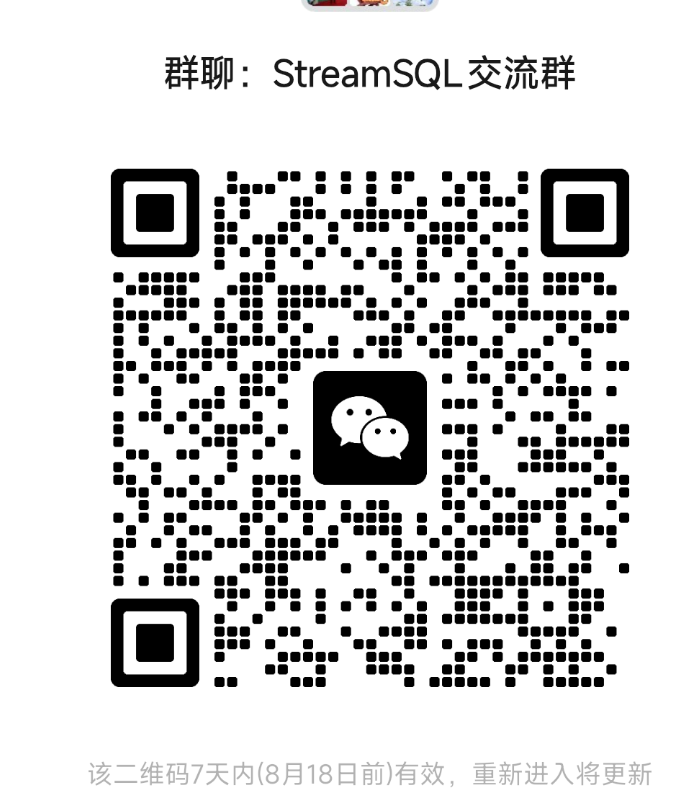
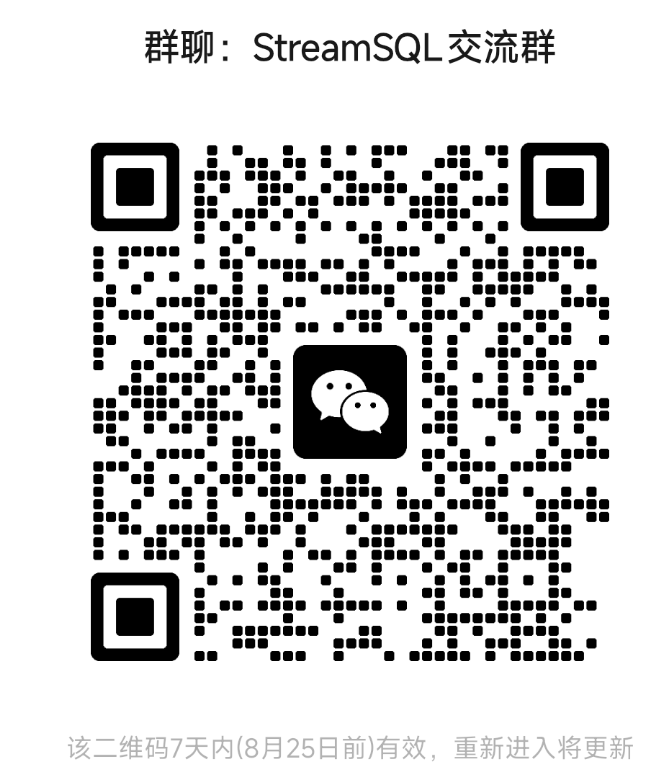
chore:更新群二维码

diff --git a/docs/01.指南/12.RuleGo-Server/02.安装与部署.md b/docs/01.指南/12.RuleGo-Server/02.安装与部署.md
@@ -230,6 +230,26 @@ enable = false
 addr = 0.0.0.0:6060
 ```
 
+### 性能调优
+
+**GOMEMLIMIT（推荐）**：Go 1.19+ 支持 `GOMEMLIMIT` 环境变量，可硬性限制堆内存上限，防止在无 swap 的受限设备上 OOM：
+
+```bash
+# 设置堆上限 256MiB（默认 GOGC=100，不影响吞吐）
+GOMEMLIMIT=256MiB ./server -c=./config.conf
+```
+
+实测数据（16 核 / 32GB，规则链 js→filter→switch→restApiCall）：
+
+| 配置 | 吞吐 | RSS 峰值 | 适用场景 |
+|------|------|----------|----------|
+| 默认（GOGC=100） | 65k/s | 134MB | 通用 |
+| GOGC=200 | 76k/s（+16%） | 179MB | 内存充裕，追求吞吐 |
+| GOMEMLIMIT=256MiB | 88k/s（+35%） | 303MB | 受限设备，内存可控 |
+| GOMEMLIMIT=512MiB | 92k/s（+40%） | 539MB | 内存充裕，极致吞吐 |
+
+> ⚠ 少核机器（≤2 核）**勿用 `GOGC=off`**：贴顶 GC 会吃掉稀缺 CPU，延迟毛刺可达数秒。建议保持默认 GOGC + GOMEMLIMIT 做安全上限。
+
 ## Docker 部署
 
 ```dockerfile
@@ -268,12 +288,23 @@ go build -tags "with_ai,with_iot,with_etl,with_ci,with_extend" -o server ./cmd/s
 
 | 标签 | 说明 |
 |------|------|
-| `with_all` | 所有可选组件（等同于同时启用下面全部标签） |
+| `with_all` | 所有可选组件（等同于同时启用下面全部标签，**不含** `use_fasthttp`） |
 | `with_ai` | AI 相关组件（ai/agent 节点、LLM 工具等） |
 | `with_iot` | IoT 相关组件 |
 | `with_etl` | ETL 数据处理组件 |
 | `with_ci` | CI/CD 相关组件 |
 | `with_extend` | 扩展组件 |
+| `use_fasthttp` | 用 fasthttp 替换 HTTP 端点和 restApiCall 组件（需与 `with_all` 等组合使用） |
+
+> **`use_fasthttp` 选型建议**：fasthttp 在 **4 核及以上**机器上吞吐提升显著（实测 +47~82%），但在 **2 核机器上反而慢约 30%**（fasthttp 端点框架的连接管理机制在少核下成为负担）。2 核及以下机器建议使用默认的 net/http 实现。用法示例：
+>
+> ```bash
+> # 4 核以上机器：启用 fasthttp 获得更高吞吐
+> go build -tags "with_all,use_fasthttp" -o server ./cmd/server/
+>
+> # 2 核机器：使用默认 net/http
+> go build -tags "with_all" -o server ./cmd/server/
+> ```
 
 ## 完整配置文件示例
 

diff --git a/docs/01.指南/12.RuleGo-Server/10.二次开发.md b/docs/01.指南/12.RuleGo-Server/10.二次开发.md
@@ -393,12 +393,21 @@ go build -tags "with_ai,with_iot,with_etl,with_ci,with_extend" -o server ./cmd/s
 
 | 标签 | 说明 |
 |------|------|
-| `with_all` | 所有可选组件（等同于同时启用下面全部标签） |
+| `with_all` | 所有可选组件（等同于同时启用下面全部标签，**不含** `use_fasthttp`） |
 | `with_ai` | AI 组件（ai/agent、LLM 工具） |
 | `with_iot` | IoT 组件（OPC UA、Modbus、Serial） |
 | `with_etl` | ETL 数据处理组件（MySQL CDC） |
 | `with_ci` | CI/CD 组件 |
 | `with_extend` | 扩展组件（Kafka、NATS、Redis、RabbitMQ、MongoDB、gRPC 等） |
+| `use_fasthttp` | 用 fasthttp 替换 HTTP 端点和 restApiCall 组件。4 核以上机器吞吐 +47~82%，2 核机器反而慢约 30%，按核数选型 |
+
+```bash
+# 4 核以上：fasthttp 获得更高吞吐
+go build -tags "with_all,use_fasthttp" -o server ./cmd/server/
+
+# 2 核及以下：默认 net/http
+go build -tags "with_all" -o server ./cmd/server/
+```
 
 ## 多租户
 

diff --git a/docs/01.指南/12.RuleGo-Server/04.REST-API参考.md b/docs/01.指南/12.RuleGo-Server/04.REST-API参考.md
@@ -93,6 +93,10 @@ Authorization: Bearer {token}
 | `category` | string | 按分类过滤 |
 | `page` / `size` | int | 分页 |
 
+响应 `items` 为摘要项（`ruleChain` 的 id/name/root/disabled/additionalInfo 摘要 + 首个 endpoint 类型），
+不含完整 DSL，完整定义通过 `GET /api/v1/rules/{id}` 获取。手动上传到服务器数据目录的 DSL 文件
+会在下次列表请求时自动同步进索引。
+
 ### 创建/更新规则链
 
 ```http
